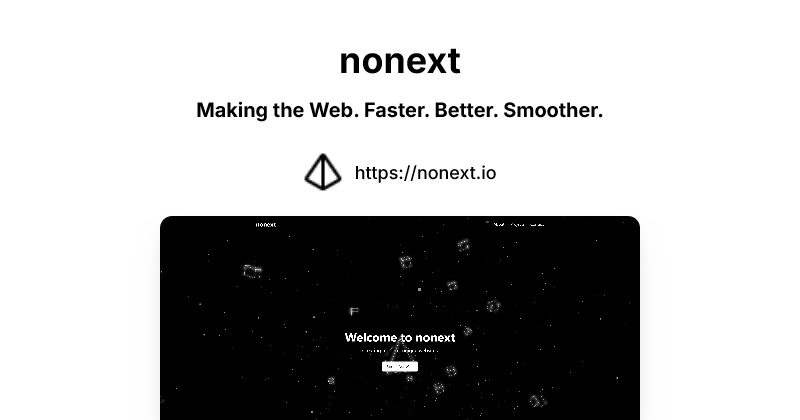
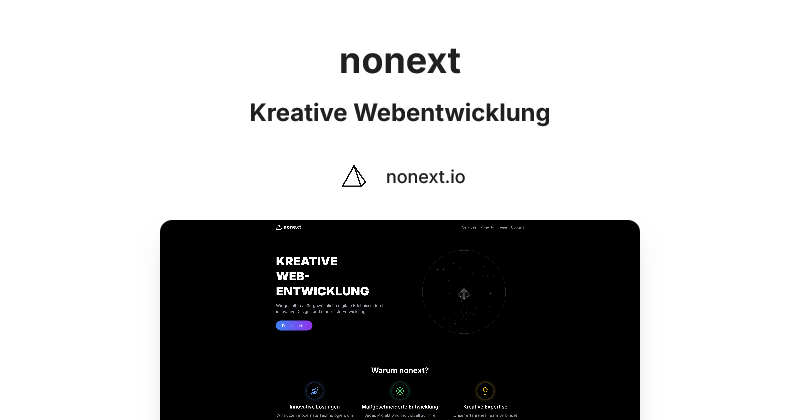
🚀feat(seo) update metadata titles and descriptions ⚙chore(assets) update og-image.png 🚀feat(seo) add robots.txt and sitemap.xml files

diff --git a/app/layout.tsx b/app/layout.tsx
@@ -24,20 +24,20 @@ export const metadata: Metadata = {
     locale: 'de_DE',
     url: 'https://nonext.io',
     siteName: 'nonext',
-    title: 'nonext | Moderne Webentwicklung',
-    description: 'Die Zukunft von Web-Erlebnissen mit innovativem Design und Technologie gestalten.',
+    title: 'nonext | Kreative Webentwicklung | Starte dein Projekt heute!',
+    description: 'Wir gestalten außergewöhnliche digitale Erlebnisse durch innovative Designs und modernste Entwicklung.',
     images: [
       {
         url: 'https://nonext.io/og-image.png',
         width: 1200,
         height: 630,
-        alt: 'nonext - Moderne Webentwicklung',
+        alt: 'nonext - Kreative Webentwicklung',
       },
     ],
   },
   twitter: {
     card: 'summary_large_image',
-    title: 'nonext | Moderne Webentwicklung',
+    title: 'nonext | Kreative Webentwicklung | Starte dein Projekt heute!',
     description: 'Die Zukunft von Web-Erlebnissen mit innovativem Design und Technologie gestalten.',
     creator: '@nonext',
     images: ['https://nonext.io/og-image.png'],
